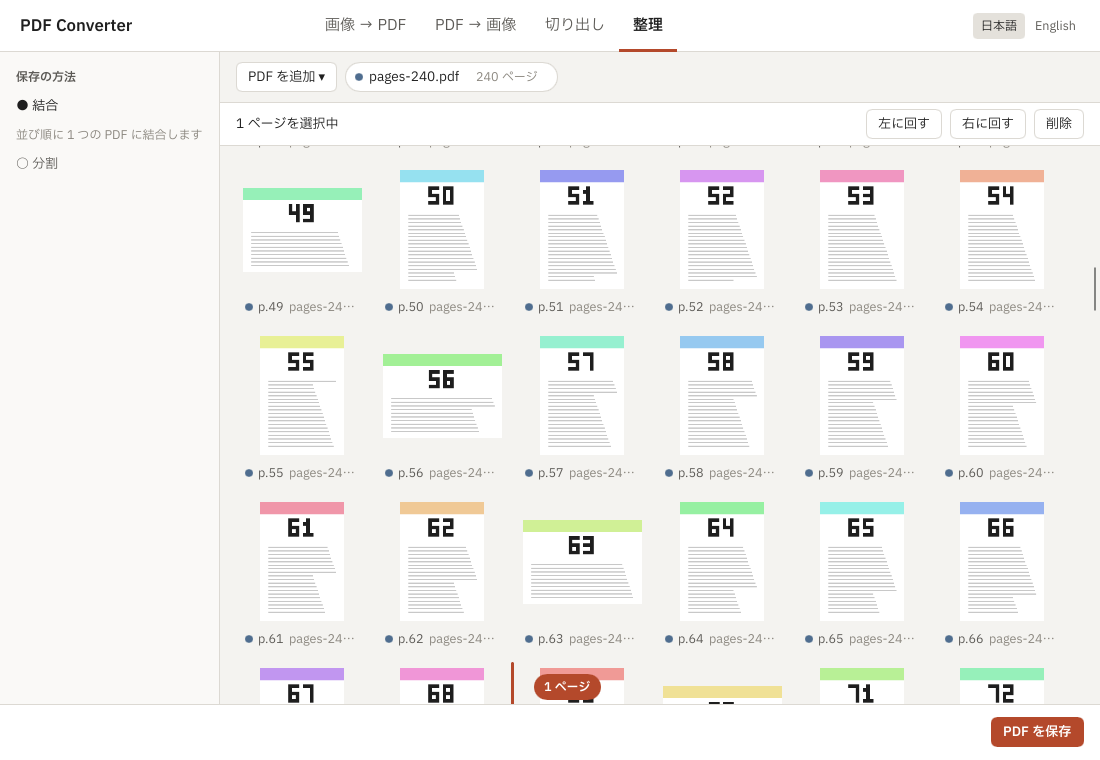
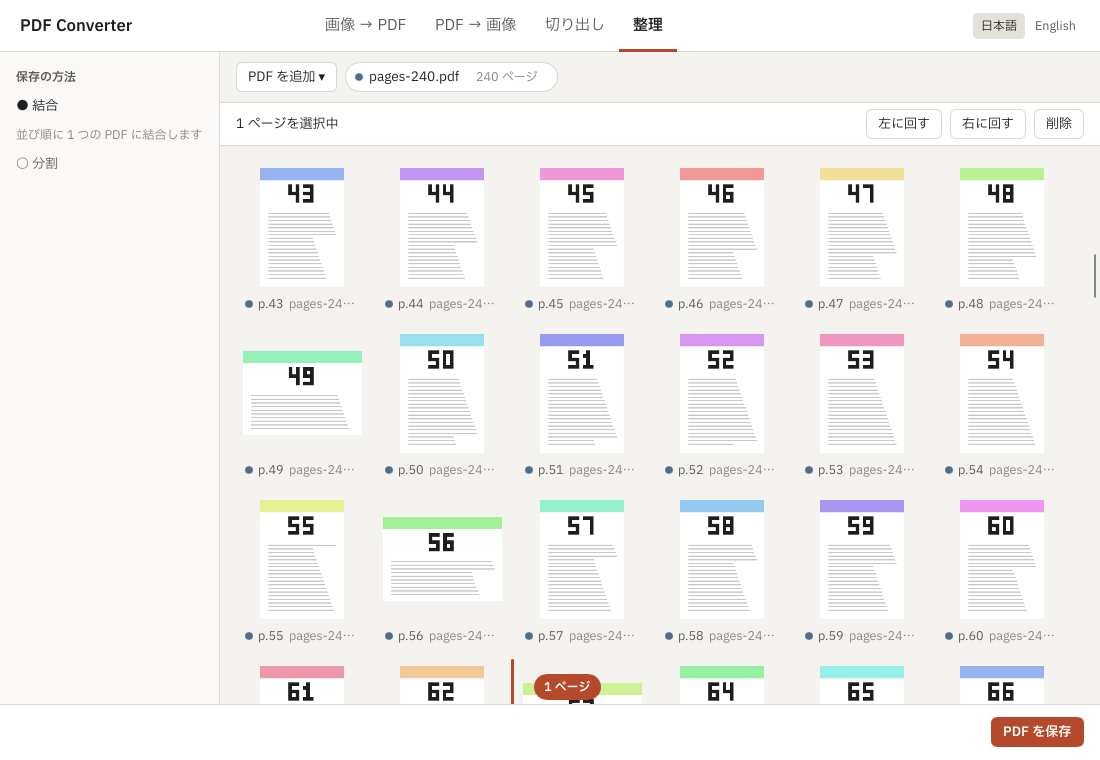
slint-spike: organize save check and the report's summary
The save step reopens the written PDF and compares every page's size with
the on-screen order, since rotation swaps width and height; that catches a
wrong order or a lost rotation without a PDF text dependency. The font script
now prefers the root node_modules, which main already populates.

Claude-Session: https://claude.ai/code/session_015L2F8FeXKnfRM5X2V7nUWQ

diff --git a/slint-spike/src/scenario.rs b/slint-spike/src/scenario.rs
@@ -357,6 +357,20 @@ pub fn run(ctx: Rc<Ctx>, dir: PathBuf) {
         // Save the current order and read it back.
         let out = d.dir.join("../target/organized.pdf");
         let expected: Vec<u32> = d.order(usize::MAX);
+        // Each output page's size, from the order on screen: a quarter turn
+        // swaps width and height, and the landscape pages moved with the rest.
+        let expected_sizes: Vec<(i32, i32)> = d
+            .ctx
+            .st
+            .borrow()
+            .org
+            .pages
+            .iter()
+            .map(|p| {
+                let (w, h) = (p.width_pt.round() as i32, p.height_pt.round() as i32);
+                if p.rotation % 180 == 90 { (h, w) } else { (w, h) }
+            })
+            .collect();
         let (sources, pages) = d.ctx.organize_request();
         let command = d.ctx.command.clone();
         let out2 = out.clone();
@@ -369,7 +383,18 @@ pub fn run(ctx: Rc<Ctx>, dir: PathBuf) {
             Ok(bytes) => {
                 println!("saved {} pages, {bytes} bytes in {} ms", expected.len(), t.elapsed().as_millis());
                 match thumbs::open_pdf(&d.ctx.command, &out) {
-                    Ok(pages) => println!("reopened: {} pages", pages.len()),
+                    Ok(pages) => {
+                        let got: Vec<(i32, i32)> = pages
+                            .iter()
+                            .map(|p| (p.width_pt.round() as i32, p.height_pt.round() as i32))
+                            .collect();
+                        let turned = expected_sizes.iter().filter(|(w, h)| w > h).count();
+                        println!(
+                            "reopened: {} pages, sizes match the screen order: {} ({turned} landscape after rotation)",
+                            pages.len(),
+                            got == expected_sizes
+                        );
+                    }
                     Err(e) => println!("reopen failed: {e}"),
                 }
             }

diff --git a/slint-spike/REPORT.md b/slint-spike/REPORT.md
@@ -187,14 +187,92 @@ focused: list item 'pages-240.pdf 5 ページ'
 - 大きな list の性能の issue が開いたまま（slint-ui/slint#3867 "`accessibility` feature have big performance impact on big listview"。題だけ読んだ）。この試作は升を 60 個ほどに抑えているので当たりにくい。
 - 並べ替えの結果（「4 ページを 13 番目に移しました」のような知らせ）は出していない。今のアプリが出しているなら、live region の文言で作る。
 
-## 5. 整理の保存
+## 5. 整理の保存 — 判定: そのままできる
 
-（未記入）
+- 作り: [`src/thumbs.rs`](src/thumbs.rs) の `organize`（約 60 行）と、[`src/main.rs`](src/main.rs) の `save_to` / `organize_request`（約 50 行）。
+- 画面の並び（`Organizer::pages` の source・page・rotation）を `OrganizePage` にして、worker の `Organize` を `WorkerProcess::request_stream` で投げる。届いた `OrganizeChunk` を `.pdf.part` に書き、`Organized` が来たら名前を変える。進み具合（`OrganizeProgress`）は `upgrade_in_event_loop` で下部バーに出す。別のスレッドで動かすので、保存の間も画面は止まらない。
+- `crates/worker` の `client.rs` / `protocol.rs` は**そのまま**使えた。Tauri に依存する所はなかった。
+- 確かめたこと（台本のログ）: 並べ替え・回転のあとの 240 ページを保存 → 592,170 バイト、約 100 ms。保存した PDF を worker で開き直し、**ページごとの大きさ（回したページは幅と高さが入れ替わる）が画面の並びと全部一致した**（元の横向き 34 ページ＋回した 4 ページ＝横向き 38 ページ）。
+- 試作に入れていないもの: 一時ファイルの置き場所と置き換えの規則（design §6.5。今は `src-tauri/src/organize_export.rs` にある）、キャンセル、分割、パスワード、見積もりの上限。これらは `organize_export.rs` を流用すれば足りる（下の「まとめ」の 2）。
 
 ## オーナーが確かめること（Windows）
 
-（未記入）
+### 前提
+
+1. Rust（rustup と MSVC の Build Tools）。`slint-spike/` はリポジトリの下にあるので、ルートの `rust-toolchain.toml`（1.99.0）がそのまま効く。
+2. Node 24 で、リポジトリの直下で `npm ci` → `npm run pdfium:fetch`（`src-tauri/pdfium/windows/bin/pdfium.dll` ができる。試作はここを見る。別の場所なら環境変数 `PDFIUM_DIR` にそのフォルダ）。
+3. フォント: Git Bash で `slint-spike/scripts/fetch-font.sh`（`npm ci` 済みなら `node_modules/@ibm/plex-sans-jp` の WOFF を使う。Python 3 が要る）。PowerShell だけなら、`slint-spike` で次を 3 書体（Regular・Medium・SemiBold）分:
+   `python -I scripts\woff2ttf.py ..\node_modules\@ibm\plex-sans-jp\fonts\complete\woff\hinted\IBMPlexSansJP-Regular.woff fonts\IBMPlexSansJP-Regular.ttf`
+4. `cd slint-spike` → `cargo run --bin make_sample` → `cargo run --release -- samples\pages-240.pdf`。
+   - 描き方は既定（Windows では femtovg、OpenGL）。比べるなら PowerShell で `$env:SLINT_BACKEND="winit-software"` を付けてもう一度。
+
+### 手で確かめること
+
+1. **スクロールの手ざわり**: 240 ページをホイール・スクロールバーのつまみで上下する。カクつかないか。サムネイルが描けたものから出て、その間も操作できるか。スクロールバーで大きく飛んだとき、止まった所のサムネイルが先に出るか。
+2. **並べ替え**: クリック、Shift+クリック、Ctrl+クリックで選び、ドラッグで動かす。差し込む線が思った位置に出るか。行の右端の外では、その行の末尾に線が出るか。格子の上下の端で止めると自動でスクロールするか（速さは端に近いほど速い）。窓の外まで出しても切れないか。
+3. **キー**: 矢印・Home・End・Shift+矢印・Space・Esc・Ctrl+A・Alt+矢印・R / L・Delete・Ctrl+Z / Ctrl+Y。Tab で格子に入れるか。
+4. **回転の見た目**: R で回したサムネイルが回って見えるか（femtovg と software の両方で同じか）。
+5. **OS からの D&D**: エクスプローラーから PDF を 1 つ・複数落とす。覆い（「PDF をドロップ」）が出て、離すと札が増えるか。落とさずに窓の外へ戻すと覆いが消えるか。**落としたときに落ちないか**（slint-ui/slint#12437）。
+6. **ダイアログ**: 「PDF を追加」で複数を選べるか、ダイアログが窓の前に出て、その間に窓を触れないか。「PDF を保存」で保存した PDF を別のビューアーで開き、並びと回転が画面どおりか。
+7. **スクリーンリーダー**（ナレーターか NVDA）: 格子に入ると「ページ リスト」と読むか。矢印で動くと「pages-240.pdf 5 ページ、選択」と読むか。**「240 個中 5 個目」のように全体の数を読むか**（Linux では setsize が出ていなかった。項目 4）。タブ（「整理、選択」）と言語のボタン（オン・オフ）を読むか。
+8. **高い DPI**: 表示の拡大を 150%・200% にして、文字とサムネイルがぼけないか（サムネイルは描く大きさの 2 倍で取っている）。
+9. **言語と色**: 右上で日本語 / English を切り替えて全部変わるか。Windows を暗い色にすると、起動の時点で暗い色になるか。
+10. IME: この試作には文字の入力欄がない（2026-10-16 の比較で `LineEdit` の IME は確かめ済み）。
 
 ## まとめ
 
-（未記入）
+### 1. 画面ごとの移行の手間の見積もり
+
+慣れた人が 1 人で作るとして、テストの書き直しを含めた日数のおおよそ。担当 B（切り出し・OCR）の結果で大きく変わるので、切り出しは幅を広く取った。
+
+| 画面・部分 | 今の React（テストを除く行数） | 見積もり | 根拠 |
+| --- | --- | --- | --- |
+| 共通の土台（窓・タブ・色・フォント・文言の移し替え（`ja.ts` の約 460 項目を `.po` に）・ダイアログ（このアプリについて・パスワード・確認・キーの一覧）・通知の帯・進み具合・設定の保存のつなぎ） | components・state・i18n・job ほか 約 8,000 | 8〜12 日 | 文言は「キー → 文言」から「英語の原文 → 訳」に変わり、形の検査がなくなる。`ContextMenuArea`・`PopupWindow` はある |
+| 整理 | 約 3,100 | 6〜10 日 | 格子・選択・並べ替え・キー・保存はこの試作でできた（Rust 約 1,200 行・`.slint` 約 500 行）。残りは札の状態（パスワード・読めない）、分割と区切りの線、右クリックのメニュー、通知、キャンセル |
+| 画像 → PDF | 約 1,200 | 4〜6 日 | 一覧と並べ替えは整理の格子の仕組みを流用できる |
+| PDF → 画像 | 約 1,900 | 3〜5 日 | 一覧と設定。ページの範囲の入力は `LineEdit` |
+| 切り出し（OCR を含む） | 約 4,400 | 10〜25 日 | 担当 B の報告による。範囲の描画は `TouchArea` と矩形で作れる見込みだが、文字の選択と縦書きは試していない |
+| Rust 側のつなぎ（`commands.rs`・`lib.rs` を Slint の callback に置き換え、`ts-rs` の derive を外す） | Rust 約 1,100 | 3〜5 日 | 下の 2 |
+| テスト | React のテスト 約 30,000 行 | 上の各行に含めたが、同じ網羅には届かない | 状態を Rust に寄せれば単体テストにできる。画面の結合テストは `Window::dispatch_event` の台本（この試作の `scenario.rs`）か Slint の testing バックエンドになる |
+| **合計** | | **およそ 35〜65 日** | |
+
+### 2. `src-tauri/src/` のうち Tauri なしでそのまま使えそうなもの
+
+`use tauri` があるのは `commands.rs`（776 行）・`lib.rs`（204 行）・`layout_files.rs`（86 行）・`pdfium.rs`（18 行）の 4 つだけだった。ほかは Tauri の型を使っていない。
+
+| ファイル | 行数 | 移すときにすること |
+| --- | --- | --- |
+| `worker_pool.rs`・`decode_budget.rs` | 683・405 | そのまま |
+| `jobs/`（`mod.rs`・`queue.rs`・`output.rs`・`options.rs`・`images_to_pdfs.rs`・`pdfs_to_images.rs`・`merged.rs`・`image_check.rs`） | 約 1,860 | 進み具合は閉包（`JobCallbacks`・`FinishJob`）で渡す作りなので、閉包の中を `upgrade_in_event_loop` に替えるだけ。`ts-rs` の derive を外す |
+| `items.rs`・`organize.rs`・`organize_export.rs`・`crop.rs`・`crop_export.rs`・`settings.rs`・`error.rs` | 994・858・591・903・479・713・186 | `ts-rs` の derive と、IPC 用の `serde` の名前付け（`camelCase`）は不要になる。`AppState`（`lib.rs` にある素の構造体）を別のファイルに移す。`IpcError` は画面の文言の選び分けに使い続けられる |
+| `layout_files.rs`・`pdfium.rs` | 86・18 | Tauri の resource_dir の代わりに、実行ファイルの隣を見るように書き直す（数行） |
+| `commands.rs`・`lib.rs` | 980 | 消える。代わりに Slint の callback をつなぐ層を書く |
+
+合わせて約 9,600 行（テストを含む）が、ほぼそのまま残せる。セキュリティの決まり（道はダイアログと D&D からだけ、PDF は worker だけが開く）は、IPC がなくなっても同じ形で守れる。
+
+### 3. 移行するかの見立て
+
+- **項目 2 の心配について**: 当たった。折り返す格子・見えている所だけを描く仕組み・並べ替えの当たり判定と差し込む線・端での自動のスクロールは、Slint では部品がなく自作になった。ただし今の React も同じ部分を自作している（`organizeGrid.ts`・`useOrganizeDrag.ts`）ので、**HTML からの上積みの手間は小さい**。性能（240 ページで升 60 個、スクロール 1 回の計算 0.2 ms 以下）と、worker とのつなぎ（`crates/worker` をそのまま、画面を止めずに）は問題がなかった。状態を Rust に寄せた分、テストは書きやすい。
+- 逆に、HTML なら何もしなくてよい所で手間が出た: 破線の枠がない、ソフトウェアの描き方で回転が効かない（#6068）、OS からの D&D は `unstable-` の winit の API 頼み、スクリーンリーダー向けに中の文字を隠す・フォーカスを委ねる番号を自分で数える、setsize が出ない疑い。どれも回避できたが、版を上げるたびに確かめ直す所が増える。
+- 見立て: **整理の画面は、移行を止める理由にはならない**。移行するかは、(1) 担当 B の切り出し・OCR（文字の選択と縦書き）の結果と、(2) 上の 35〜65 日と React のテスト約 3 万行を捨てる重さを、起動の速さとメモリ（2026-10-16 に測り済み）に見合うと見るか、で決まる。整理だけを見た私の判断は「**今すぐの移行は勧めない。B の結果で文字の選択・縦書きが『工夫すればできる』以上なら、移行は現実的**」。決めるなら、Windows の手ざわり（上の 1〜2）とスクリーンリーダー（7）を先に確かめてほしい。ここが悪いと、自作の量がさらに増える。
+
+### Slint のライセンス（Royalty-free 2.0）
+
+`slint-1.18.1/LICENSES/LicenseRef-Slint-Royalty-free-2.0.md` の本文を全部読んだ。Slint の crate は `GPL-3.0-only OR LicenseRef-Slint-Royalty-free-2.0 OR LicenseRef-Slint-Software-3.0` の 3 つから選ぶ。このアプリ（公開のリポジトリ、MIT、無料で配るデスクトップのアプリ）に効く条件:
+
+- **使ってよい範囲**: デスクトップ・モバイル・Web の「アプリの一部として」なら、無料で、使う・変える・配ることができる（§1）。料金や売り上げの条件はない。公開のリポジトリか、無料かは条件に入っていない。
+- **表示の義務（§2）**: 次のどちらか。
+  - (a) アプリの「このアプリについて」（一番上のメニューから開けるもの）に `AboutSlint` の部品を出す。なければ起動の画面に出す。今のアプリには「このアプリについて」があるので、ここに置ける。
+  - (b) 公開の Web ページ（できれば配布のページ。GitHub のリリースや README）に「Made with Slint」のバッジを、見つけやすく出す。
+- **してはいけないこと（§3）**: Slint をアプリに組み込まずに単体で配ること（それには GPL-3.0 を使う）。組み込み機器での利用。Slint の API を外に出すアプリ（プラグインの仕組みなどで Slint の API を公開する）。ソースの中のライセンスや著作権の表示を消す・変えること。このアプリはどれにも当たらない。
+- **保証と責任（§4）**: 保証なし、責任なし（法律で求められる場合を除く）。
+- このリポジトリの手続きに効くこと:
+  - アプリのコード自体は MIT のまま。ただし配るバイナリには MIT でない Slint が入る。Slint は「オープンソースでないライセンス」を選んで使うことになる（GPL を選ぶとアプリ全体が GPL になる）。
+  - `deny.toml` の `allow` に `LicenseRef-Slint-Royalty-free-2.0` を足す（3 つの OR のうちこれを選ぶ）。`about.toml` の `accepted` にも足し、本文を同梱のライセンスの一覧に入れる。
+  - Slint を入れると、ほかに `BSL-1.0`（`clipboard-win`・`error-code`。Windows の依存）が増え、今の `allow` にない。足すかを決める必要がある（`cargo metadata` で Windows の依存を数えた結果。ほかは MIT / Apache-2.0 / BSD / Zlib / ISC / Unicode-3.0 で、今の一覧に入っている）。
+  - フォークした人も、同じ条件で SixtyFPS から直接ライセンスを受ける（このリポジトリが再許諾するわけではない）。README にその旨を書いておくとよい。
+
+## 途中で分かった、このクラウドでの事情
+
+- `git push` が 403 で断られ、`spike/slint-organize` を GitHub に送れなかった（読み取りはできる）。コミットはこの環境の `spike/slint-organize` にある。
+- Xvfb の上で動かすには `libxkbcommon-x11-0` が要った（`apt-get install` した）。AT-SPI の木を読むのに `at-spi2-core`・`python3-pyatspi`・`dbus-x11`・`xdotool` を入れた。
